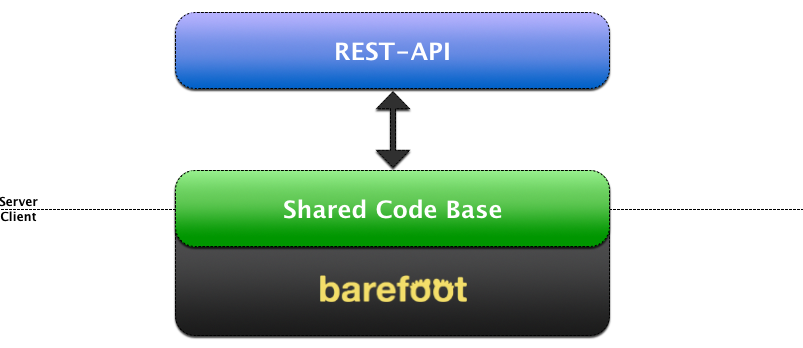
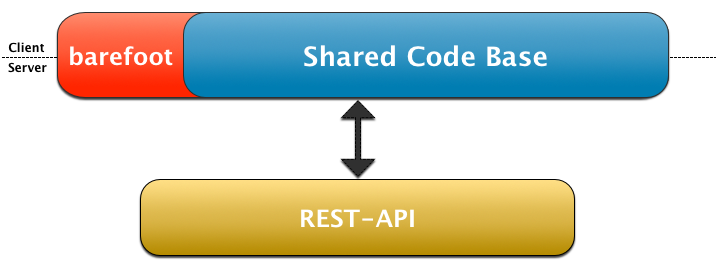
Update layers wiiith...Colors!

diff --git a/content/sad/diagrams/mvc-components.tex b/content/sad/diagrams/mvc-components.tex
@@ -20,13 +20,13 @@
 \pgfsetfillcolor{dialinecolor}
 \pgfsetlinewidth{0.100000\du}
 \pgfsetdash{}{0pt}
-\definecolor{dialinecolor}{rgb}{1.000000, 1.000000, 1.000000}
+\definecolor{dialinecolor}{rgb}{1.000000, 0.854902, 0.450980}
 \pgfsetfillcolor{dialinecolor}
 \fill (16.000000\du,3.000000\du)--(16.000000\du,10.000000\du)--(29.000000\du,10.000000\du)--(29.000000\du,3.000000\du)--cycle;
 \definecolor{dialinecolor}{rgb}{0.000000, 0.000000, 0.000000}
 \pgfsetstrokecolor{dialinecolor}
 \draw (16.000000\du,3.000000\du)--(16.000000\du,10.000000\du)--(29.000000\du,10.000000\du)--(29.000000\du,3.000000\du)--cycle;
-\definecolor{dialinecolor}{rgb}{1.000000, 1.000000, 1.000000}
+\definecolor{dialinecolor}{rgb}{1.000000, 0.854902, 0.450980}
 \pgfsetfillcolor{dialinecolor}
 \fill (16.000000\du,2.000000\du)--(16.000000\du,3.000000\du)--(18.510000\du,3.000000\du)--(18.510000\du,2.000000\du)--cycle;
 \definecolor{dialinecolor}{rgb}{0.000000, 0.000000, 0.000000}
@@ -35,16 +35,16 @@
 % setfont left to latex
 \definecolor{dialinecolor}{rgb}{0.000000, 0.000000, 0.000000}
 \pgfsetstrokecolor{dialinecolor}
-\node[anchor=west] at (16.000000\du,2.500000\du){Server};
+\node[anchor=west] at (16.000000\du,2.500000\du){API};
 \pgfsetlinewidth{0.100000\du}
 \pgfsetdash{}{0pt}
-\definecolor{dialinecolor}{rgb}{1.000000, 1.000000, 1.000000}
+\definecolor{dialinecolor}{rgb}{0.392157, 0.658824, 0.819608}
 \pgfsetfillcolor{dialinecolor}
 \fill (13.000000\du,13.000000\du)--(13.000000\du,23.000000\du)--(32.000000\du,23.000000\du)--(32.000000\du,13.000000\du)--cycle;
 \definecolor{dialinecolor}{rgb}{0.000000, 0.000000, 0.000000}
 \pgfsetstrokecolor{dialinecolor}
 \draw (13.000000\du,13.000000\du)--(13.000000\du,23.000000\du)--(32.000000\du,23.000000\du)--(32.000000\du,13.000000\du)--cycle;
-\definecolor{dialinecolor}{rgb}{1.000000, 1.000000, 1.000000}
+\definecolor{dialinecolor}{rgb}{0.392157, 0.658824, 0.819608}
 \pgfsetfillcolor{dialinecolor}
 \fill (13.000000\du,12.000000\du)--(13.000000\du,13.000000\du)--(15.510000\du,13.000000\du)--(15.510000\du,12.000000\du)--cycle;
 \definecolor{dialinecolor}{rgb}{0.000000, 0.000000, 0.000000}
@@ -56,7 +56,7 @@
 \node[anchor=west] at (12.900000\du,12.500000\du){Shared};
 \pgfsetlinewidth{0.100000\du}
 \pgfsetdash{}{0pt}
-\definecolor{dialinecolor}{rgb}{1.000000, 1.000000, 1.000000}
+\definecolor{dialinecolor}{rgb}{0.392157, 0.658824, 0.819608}
 \pgfsetfillcolor{dialinecolor}
 \fill (20.000000\du,15.000000\du)--(20.000000\du,16.400000\du)--(25.022500\du,16.400000\du)--(25.022500\du,15.000000\du)--cycle;
 \definecolor{dialinecolor}{rgb}{0.000000, 0.000000, 0.000000}
@@ -68,7 +68,7 @@
 \node at (22.511250\du,15.750000\du){Controller};
 \pgfsetlinewidth{0.100000\du}
 \pgfsetdash{}{0pt}
-\definecolor{dialinecolor}{rgb}{1.000000, 1.000000, 1.000000}
+\definecolor{dialinecolor}{rgb}{1.000000, 0.854902, 0.450980}
 \pgfsetfillcolor{dialinecolor}
 \fill (19.300000\du,5.900000\du)--(19.300000\du,7.300000\du)--(25.790000\du,7.300000\du)--(25.790000\du,5.900000\du)--cycle;
 \definecolor{dialinecolor}{rgb}{0.000000, 0.000000, 0.000000}
@@ -80,7 +80,7 @@
 \node at (22.545000\du,6.700000\du){ApiController};
 \pgfsetlinewidth{0.100000\du}
 \pgfsetdash{}{0pt}
-\definecolor{dialinecolor}{rgb}{1.000000, 1.000000, 1.000000}
+\definecolor{dialinecolor}{rgb}{0.392157, 0.658824, 0.819608}
 \pgfsetfillcolor{dialinecolor}
 \fill (15.000000\du,19.000000\du)--(15.000000\du,20.400000\du)--(17.662500\du,20.400000\du)--(17.662500\du,19.000000\du)--cycle;
 \definecolor{dialinecolor}{rgb}{0.000000, 0.000000, 0.000000}
@@ -92,7 +92,7 @@
 \node at (16.331250\du,19.750000\du){View};
 \pgfsetlinewidth{0.100000\du}
 \pgfsetdash{}{0pt}
-\definecolor{dialinecolor}{rgb}{1.000000, 1.000000, 1.000000}
+\definecolor{dialinecolor}{rgb}{0.392157, 0.658824, 0.819608}
 \pgfsetfillcolor{dialinecolor}
 \fill (27.000000\du,19.000000\du)--(27.000000\du,20.400000\du)--(30.235000\du,20.400000\du)--(30.235000\du,19.000000\du)--cycle;
 \definecolor{dialinecolor}{rgb}{0.000000, 0.000000, 0.000000}

diff --git a/content/sad.tex b/content/sad.tex
@@ -1,6 +1,12 @@
 \chapter{Technische Architektur}
 \label{sec:sad}
 
+% Colors:
+%   - Shared: #64A8D1
+%   - Server: #FFDA73
+%   - barefoot: #FF9573
+% --> http://colorschemedesigner.com/#3u31Tw0w0w0w0
+
 \input{content/sad/introduction}
 
 \clearpage
